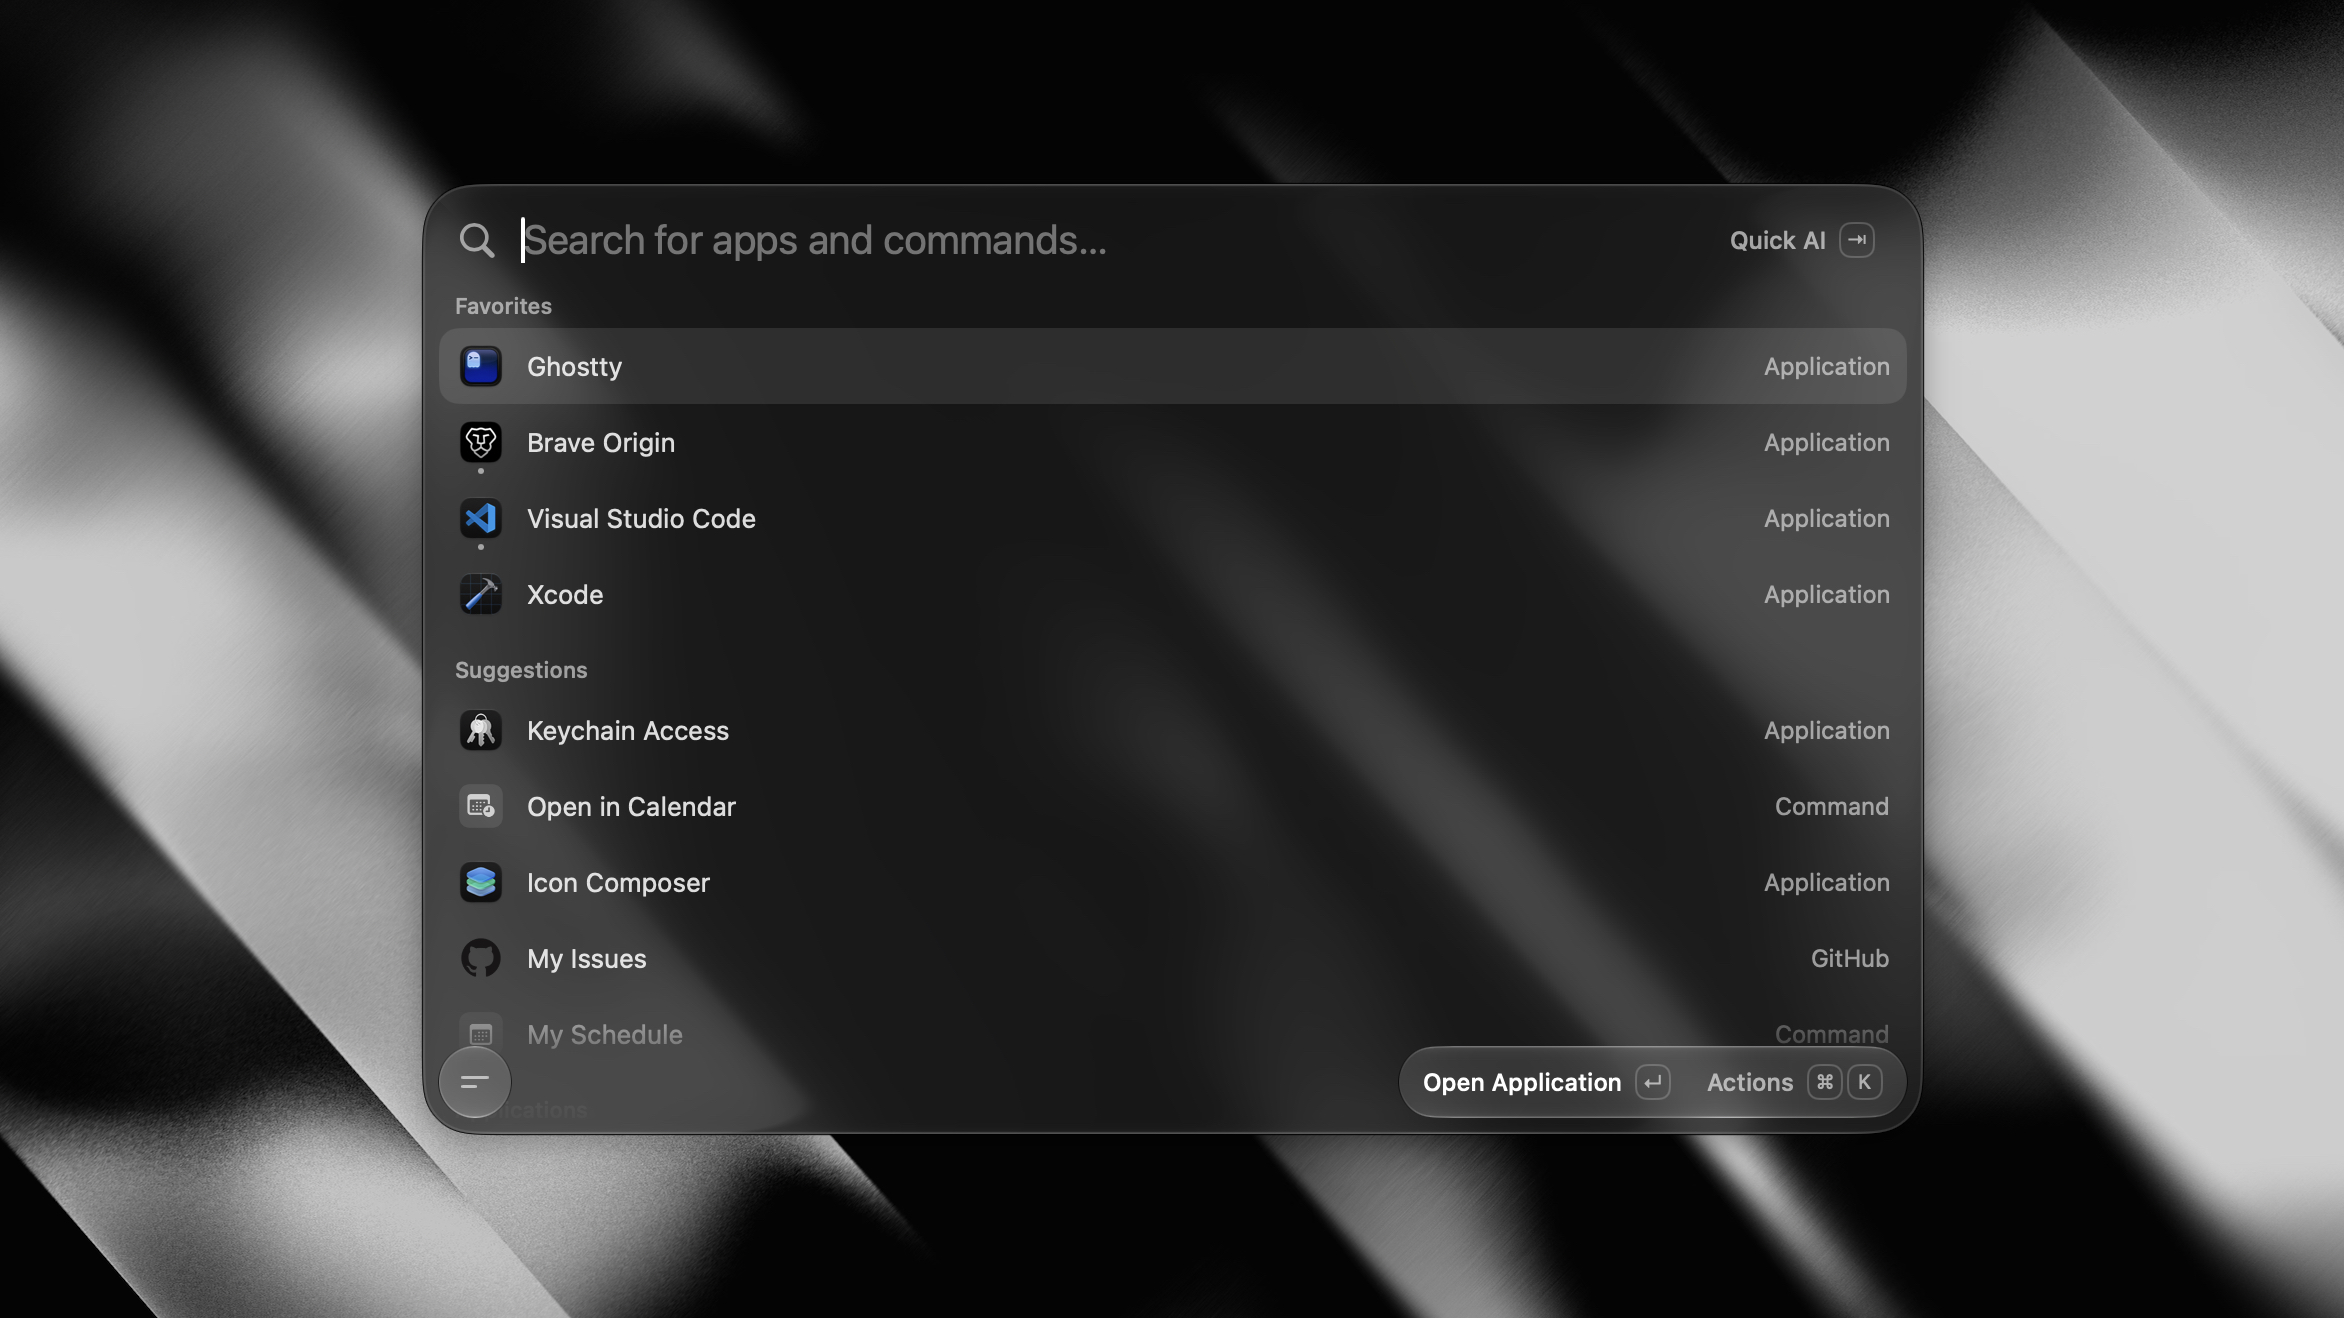
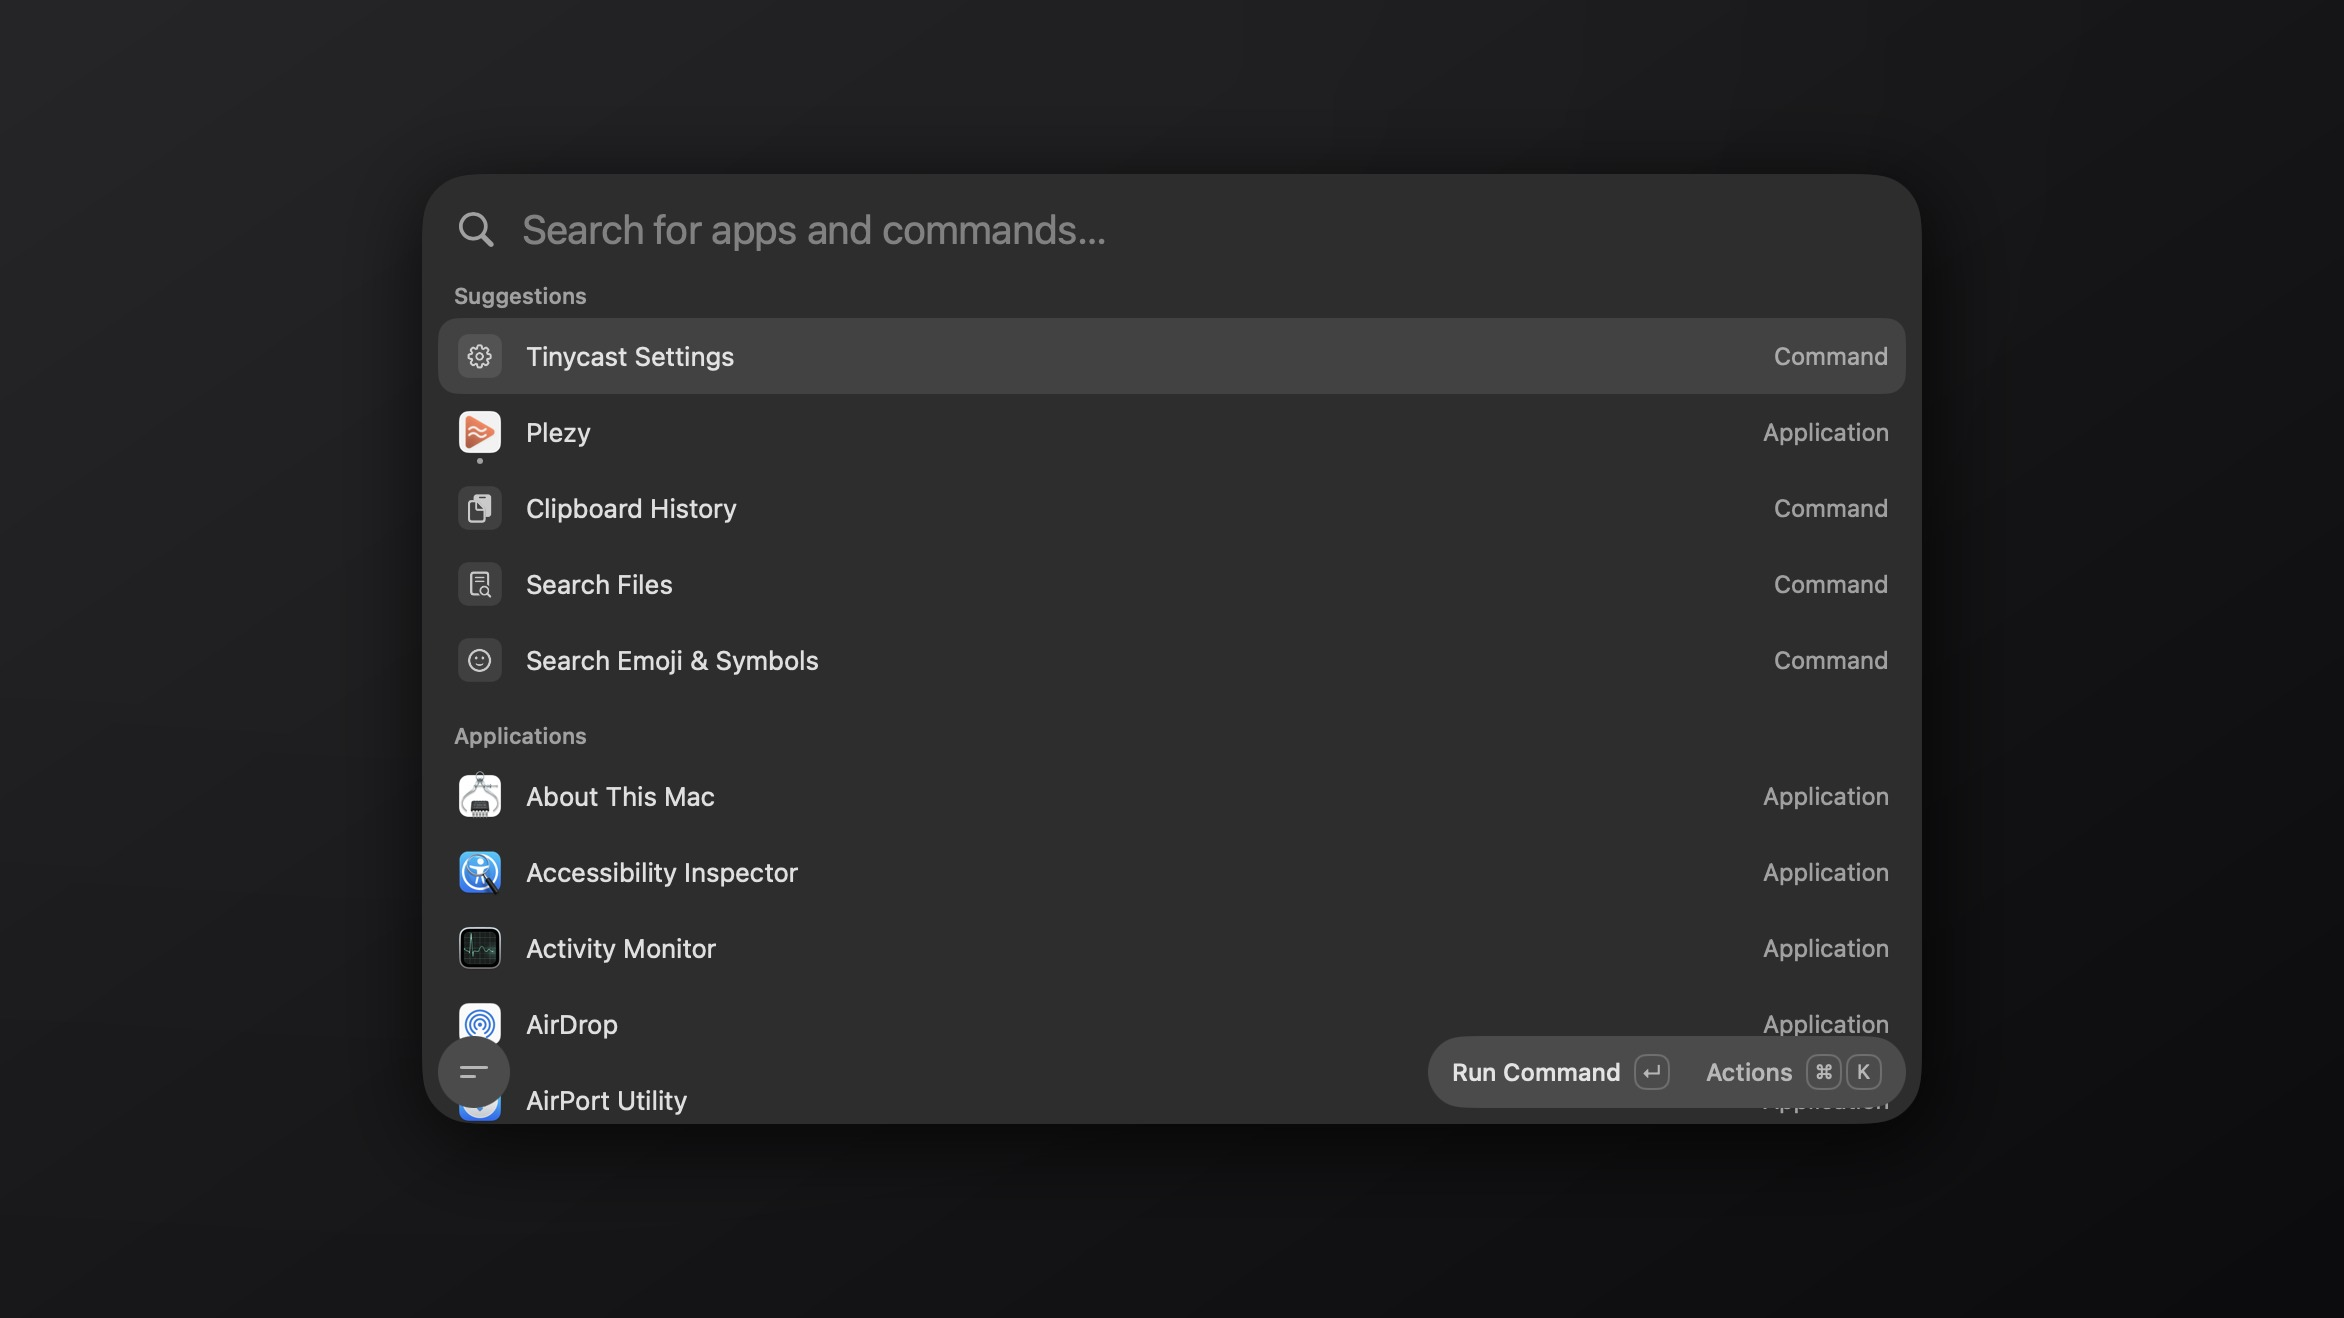
Mount the expanded list after the window has grown
Expanding from the compact bar built the list while the panel was still at
bar height, so its scroll view kept the bar's insets and the first rows sat
under the header. Gate the content on the resize, and refresh the README
screenshot to the current visuals.

diff --git a/Tinycast/Palette/RootPaletteView.swift b/Tinycast/Palette/RootPaletteView.swift
@@ -43,6 +43,8 @@ struct RootPaletteView: View {
     /// The pending scroll request; modes are exclusive, so one piece of state serves all.
     @State private var scroll = ScrollIntent(kind: .top)
     @State private var compactSelection = CompactBarSelection()
+    /// False until the window has grown; a list mounted at bar height keeps stale insets.
+    @State private var expandedContentReady = false
 
     /// Compact vs. full; the source of truth is on `AppCore`, so the two can't disagree.
     private var isCollapsed: Bool { core.paletteCoordinator.paletteIsCollapsed }
@@ -315,7 +317,7 @@ struct RootPaletteView: View {
         return keyHandlers(
             stateObservers(
                 Group {
-                    if isCollapsed {
+                    if isCollapsed || !expandedContentReady {
                         Color.clear
                     } else {
                         screen.body(selection: sel, scroll: scroll)
@@ -509,6 +511,7 @@ struct RootPaletteView: View {
             }
             // The first show builds this view after `prepare`, so no handler saw that reset.
             .onAppear {
+                expandedContentReady = !isCollapsed
                 searchFocused = !screen.hidesSearchField
                 land()
                 focusPendingArgument()
@@ -517,7 +520,14 @@ struct RootPaletteView: View {
             // Several paths flip `paletteIsCollapsed`, so resize the window to match.
             .onChange(of: core.paletteCoordinator.paletteIsCollapsed) {
                 resetCompactSelection()
+                expandedContentReady = false
                 core.paletteCoordinator.syncPaletteSize()
+            }
+            .task(id: isCollapsed) {
+                guard !isCollapsed else { return }
+                await Task.yield()
+                guard !Task.isCancelled else { return }
+                expandedContentReady = true
             }
     }
 

diff --git a/docs/features/palette.md b/docs/features/palette.md
@@ -287,6 +287,8 @@ collapsing remain separate presses. The next Escape clears that flag and collaps
 Menus and argument fields still take precedence, and sub-screen navigation keeps its own behavior.
 A summon clears `forceExpanded` whenever the field is empty, so a launcher Pop to Root Search
 restores still opens as the bar; a kept query, screen or extension restores expanded as before.
+The list is only mounted after `syncPaletteSize()` has grown the window: mounted at bar height, its
+scroll view keeps the bar's insets and rests under the header.
 
 The material is a background of the header, not a wrapper around it: the field keeps its one structural
 position, and nothing paints its blur over the row. While compact the row is
